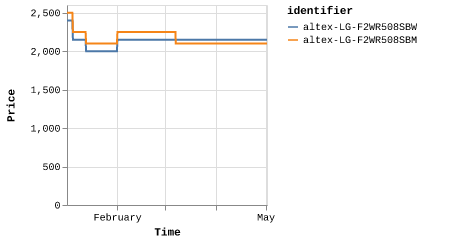
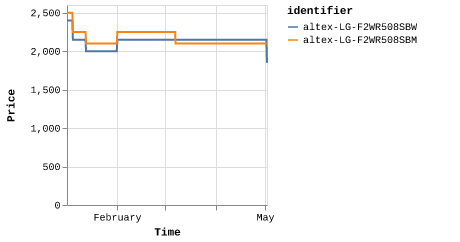
Latest scraping spalat: Thu May  2 04:39:37 UTC 2024

diff --git a/scrapes/spalat/altex-LG-F2WR508SBW.md b/scrapes/spalat/altex-LG-F2WR508SBW.md
@@ -1,3 +1,3 @@
-2149
+1849
 
 [Source](https://altex.ro/masina-de-spalat-rufe-frontala-slim-lg-f2wr508sbw-steam-8-kg-1200rpm-clasa-a-alb/cpd/MSFF2WR508SBW/)
